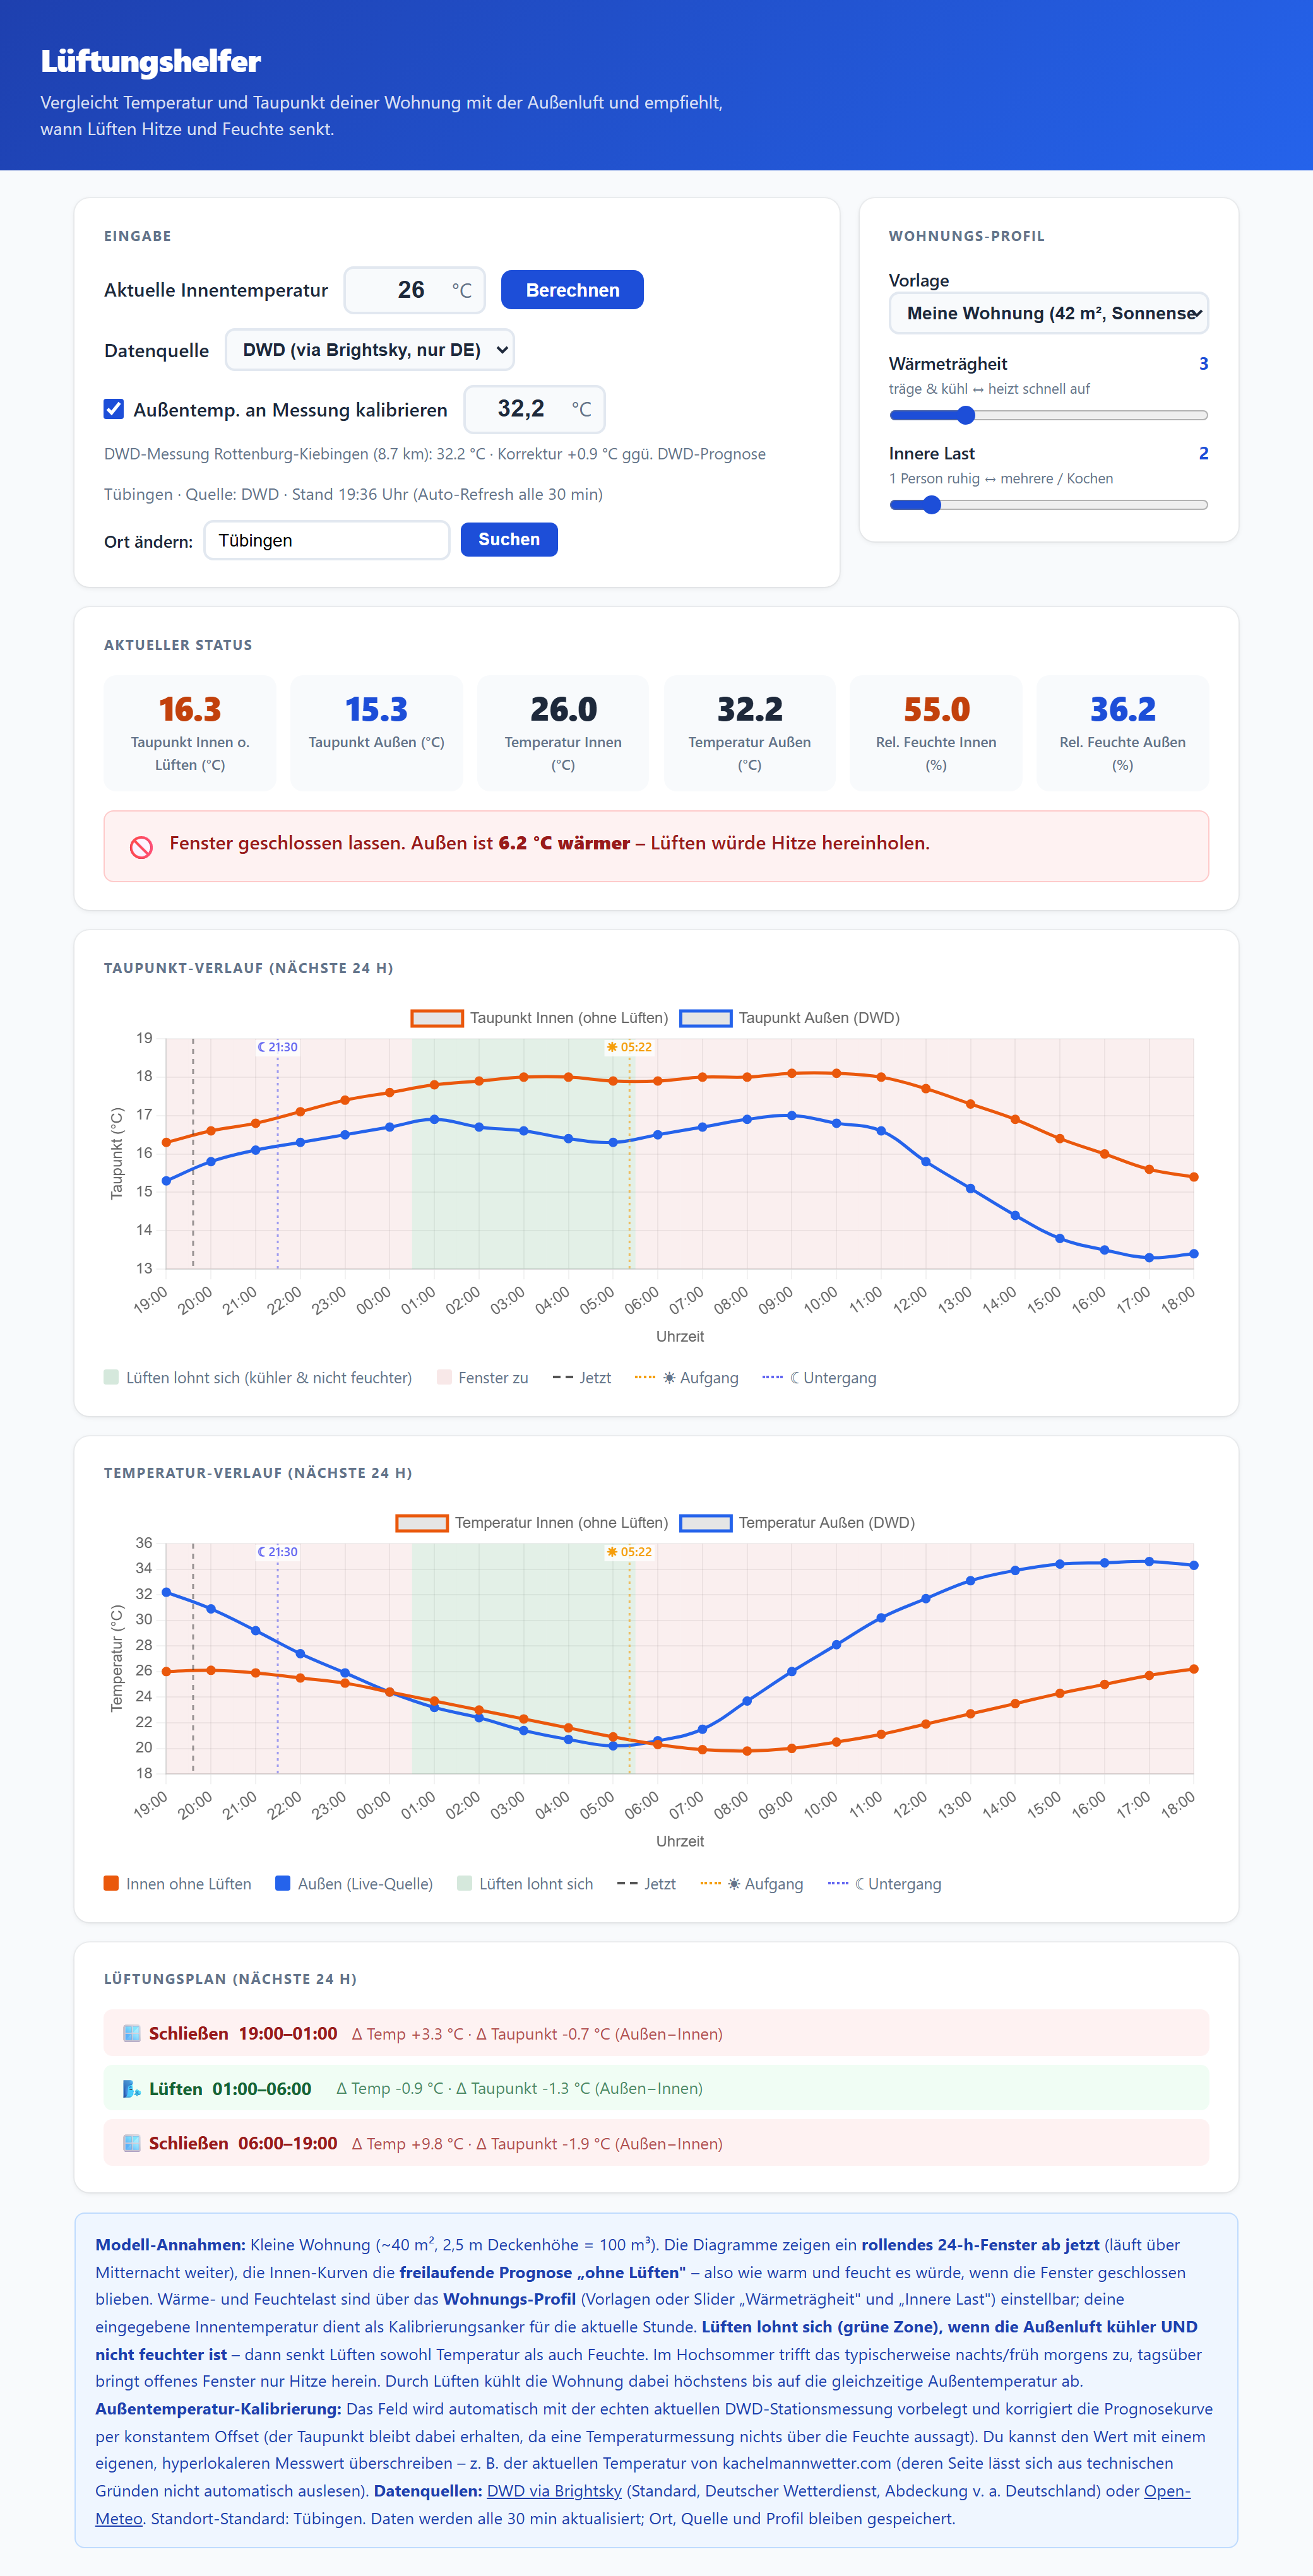
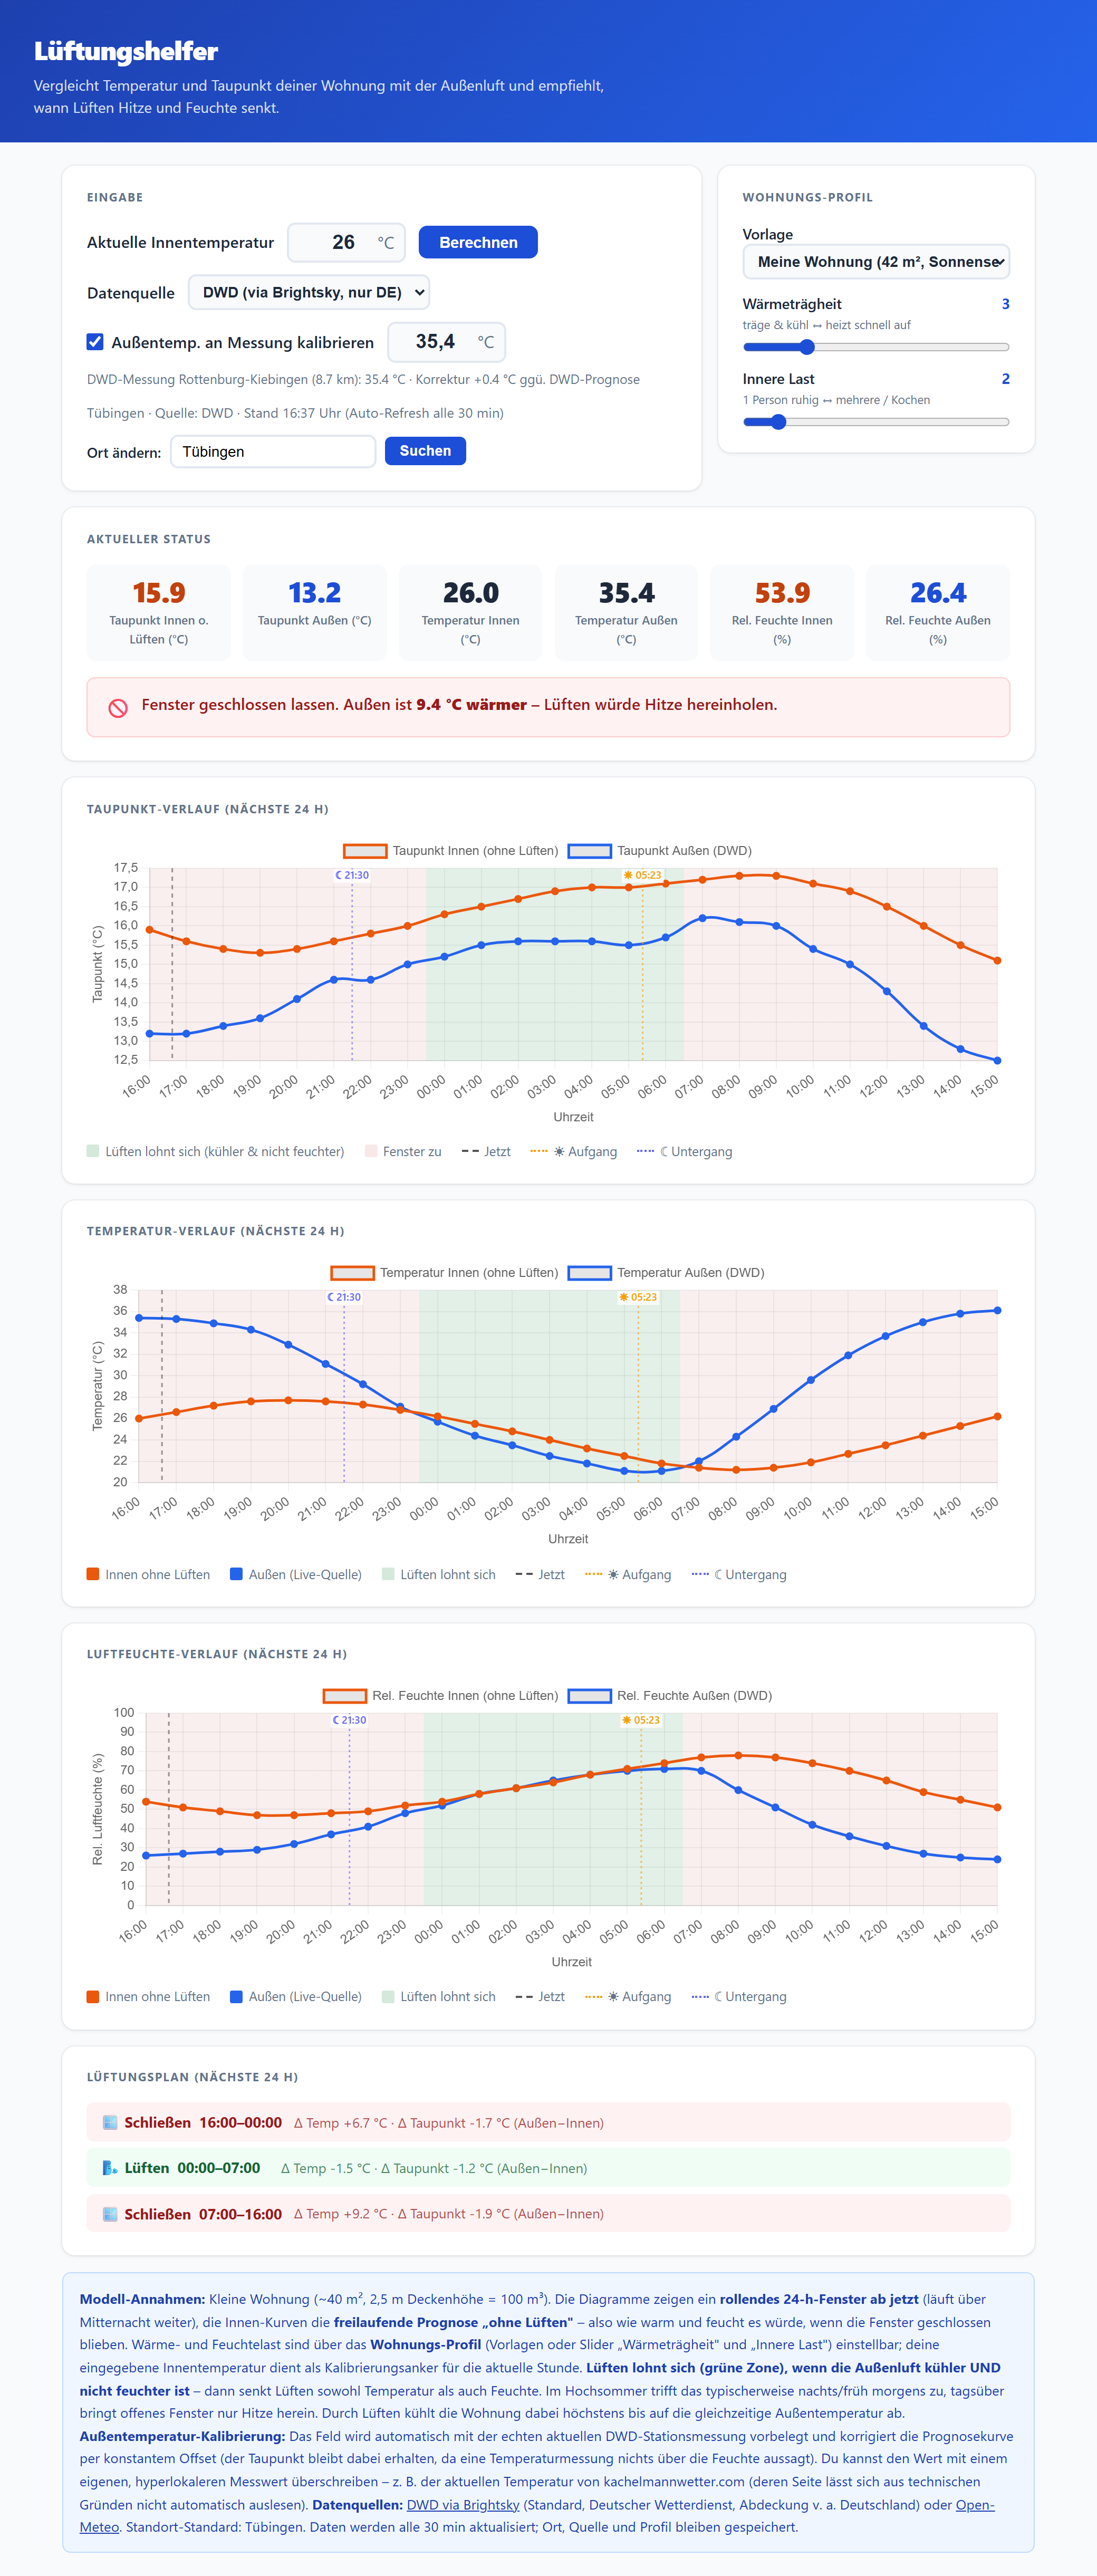
Drittes Diagramm: Luftfeuchte-Verlauf (innen vs. außen)
- Neue Karte mit relativer Luftfeuchte (innen "ohne Lüften" vs. Außenquelle)
  über das rollende 24-h-Fenster; gleiche Lüften-Zonen, Jetzt-Linie und
  Sonnenauf-/untergang-Markierungen wie die anderen Diagramme (Achse 0–100 %)
- buildRhChart() + State/Aufruf in calculate(), Karte #card-rh
- Screenshot auf den neuen Stand gebracht (alle drei Diagramme)

diff --git a/index.html b/index.html
@@ -240,6 +240,20 @@
         </div>
     </div>
 
+    <!-- Luftfeuchte-Diagramm -->
+    <div class="card" id="card-rh" style="display:none">
+        <div class="card-title">Luftfeuchte-Verlauf (nächste 24 h)</div>
+        <div class="chart-wrap"><canvas id="rh-chart"></canvas></div>
+        <div class="legend">
+            <span class="legend-item"><span class="dot" style="background:#ea580c"></span>Innen ohne Lüften</span>
+            <span class="legend-item"><span class="dot" style="background:#2563eb"></span>Außen (Live-Quelle)</span>
+            <span class="legend-item"><span class="dot" style="background:rgba(21,128,61,.18)"></span>Lüften lohnt sich</span>
+            <span class="legend-item"><span style="display:inline-block;width:16px;height:0;border-top:2px dashed #555"></span>Jetzt</span>
+            <span class="legend-item"><span style="display:inline-block;width:16px;height:0;border-top:2px dotted #f59e0b"></span>☀ Aufgang</span>
+            <span class="legend-item"><span style="display:inline-block;width:16px;height:0;border-top:2px dotted #6366f1"></span>☾ Untergang</span>
+        </div>
+    </div>
+
     <!-- Lüftungsplan -->
     <div class="card" id="card-sched" style="display:none">
         <div class="card-title">Lüftungsplan (nächste 24 h)</div>
@@ -376,7 +390,7 @@ function simulate(outT, outRH, userT, anchorIdx) {
 }
 
 // ── State ─────────────────────────────────────────────────────
-let wx = null, dpChart = null, tChart = null;
+let wx = null, dpChart = null, tChart = null, rhChart = null;
 let loc = null;            // aktueller Standort { lat, lon, name }
 let source = 'dwd';        // gewählte Datenquelle
 let srcLabel = 'DWD';
@@ -713,6 +727,57 @@ function buildTempChart(labels, inT, outT, vent) {
     });
 }
 
+function buildRhChart(labels, inRH, outRH, vent) {
+    const ctx = $('rh-chart').getContext('2d');
+    if (rhChart) rhChart.destroy();
+
+    rhChart = new Chart(ctx, {
+        type: 'line',
+        plugins: [zonePlugin(vent), nowLinePlugin, sunPlugin],
+        data: {
+            labels,
+            datasets: [
+                {
+                    label: 'Rel. Feuchte Innen (ohne Lüften)',
+                    data: inRH.map(v => Math.round(v)),
+                    borderColor: '#ea580c', pointBackgroundColor: '#ea580c',
+                    borderWidth: 2.5, pointRadius: 2.5, pointHoverRadius: 5, tension: 0.4
+                },
+                {
+                    label: `Rel. Feuchte Außen (${srcLabel})`,
+                    data: outRH.map(v => Math.round(v)),
+                    borderColor: '#2563eb', pointBackgroundColor: '#2563eb',
+                    borderWidth: 2.5, pointRadius: 2.5, pointHoverRadius: 5, tension: 0.4
+                }
+            ]
+        },
+        options: {
+            responsive: true, maintainAspectRatio: false,
+            interaction: { mode: 'index', intersect: false },
+            plugins: {
+                legend: { position: 'top' },
+                tooltip: {
+                    callbacks: {
+                        label: c => `${c.dataset.label}: ${c.parsed.y} %`,
+                        afterBody: items => {
+                            const i = items[0].dataIndex;
+                            const d = outRH[i] - inRH[i];
+                            return [
+                                `Δ rel. Feuchte (Außen−Innen): ${d >= 0 ? '+' : ''}${Math.round(d)} %`,
+                                vent[i] ? '→ Lüften lohnt sich' : '→ Fenster zu'
+                            ];
+                        }
+                    }
+                }
+            },
+            scales: {
+                x: { title: { display: true, text: 'Uhrzeit' }, grid: { color: 'rgba(0,0,0,.05)' } },
+                y: { title: { display: true, text: 'Rel. Luftfeuchte (%)' }, suggestedMin: 0, suggestedMax: 100, grid: { color: 'rgba(0,0,0,.05)' } }
+            }
+        }
+    });
+}
+
 // ── Haupt-Berechnung ─────────────────────────────────────────
 function calculate() {
     if (!wx) return;
@@ -782,11 +847,13 @@ function calculate() {
     showRec(inT[0], outT[0], inDP[0], outDP[0]);
     buildChart(labels, inDP, outDP, vent);
     buildTempChart(labels, inT, outT, vent);
+    buildRhChart(labels, inRH, outRH, vent);
     buildSched(labels, inT, outT, inDP, outDP, vent);
 
     $('card-status').style.display = '';
     $('card-chart').style.display  = '';
     $('card-temp').style.display   = '';
+    $('card-rh').style.display     = '';
     $('card-sched').style.display  = '';
 
     saveState();